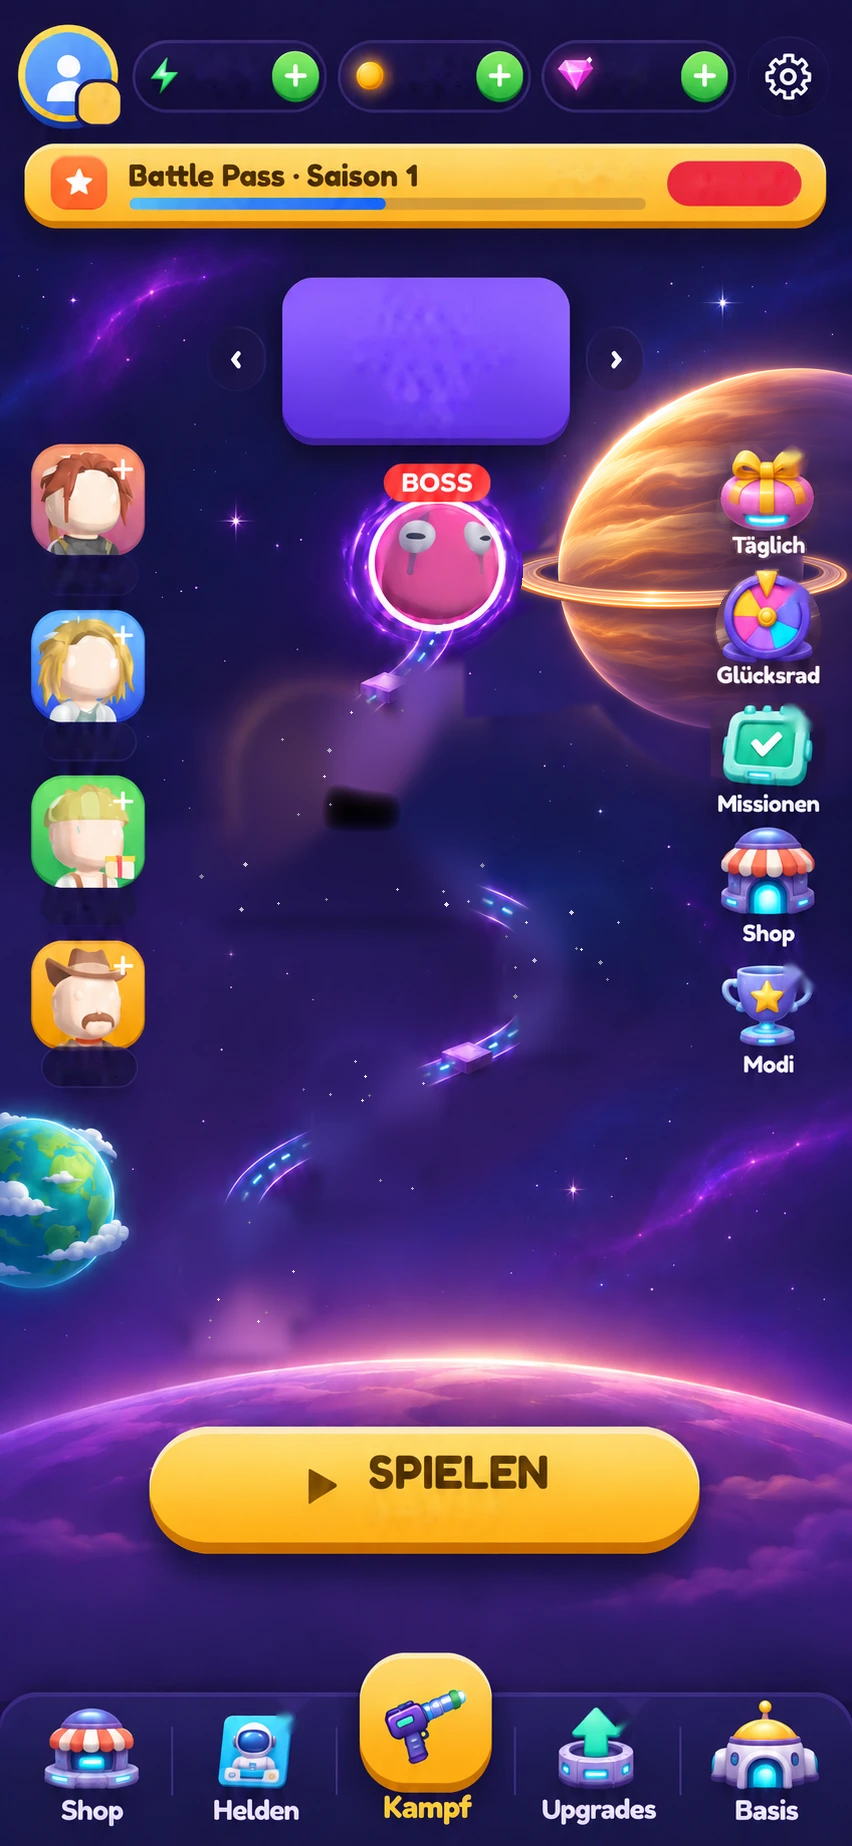
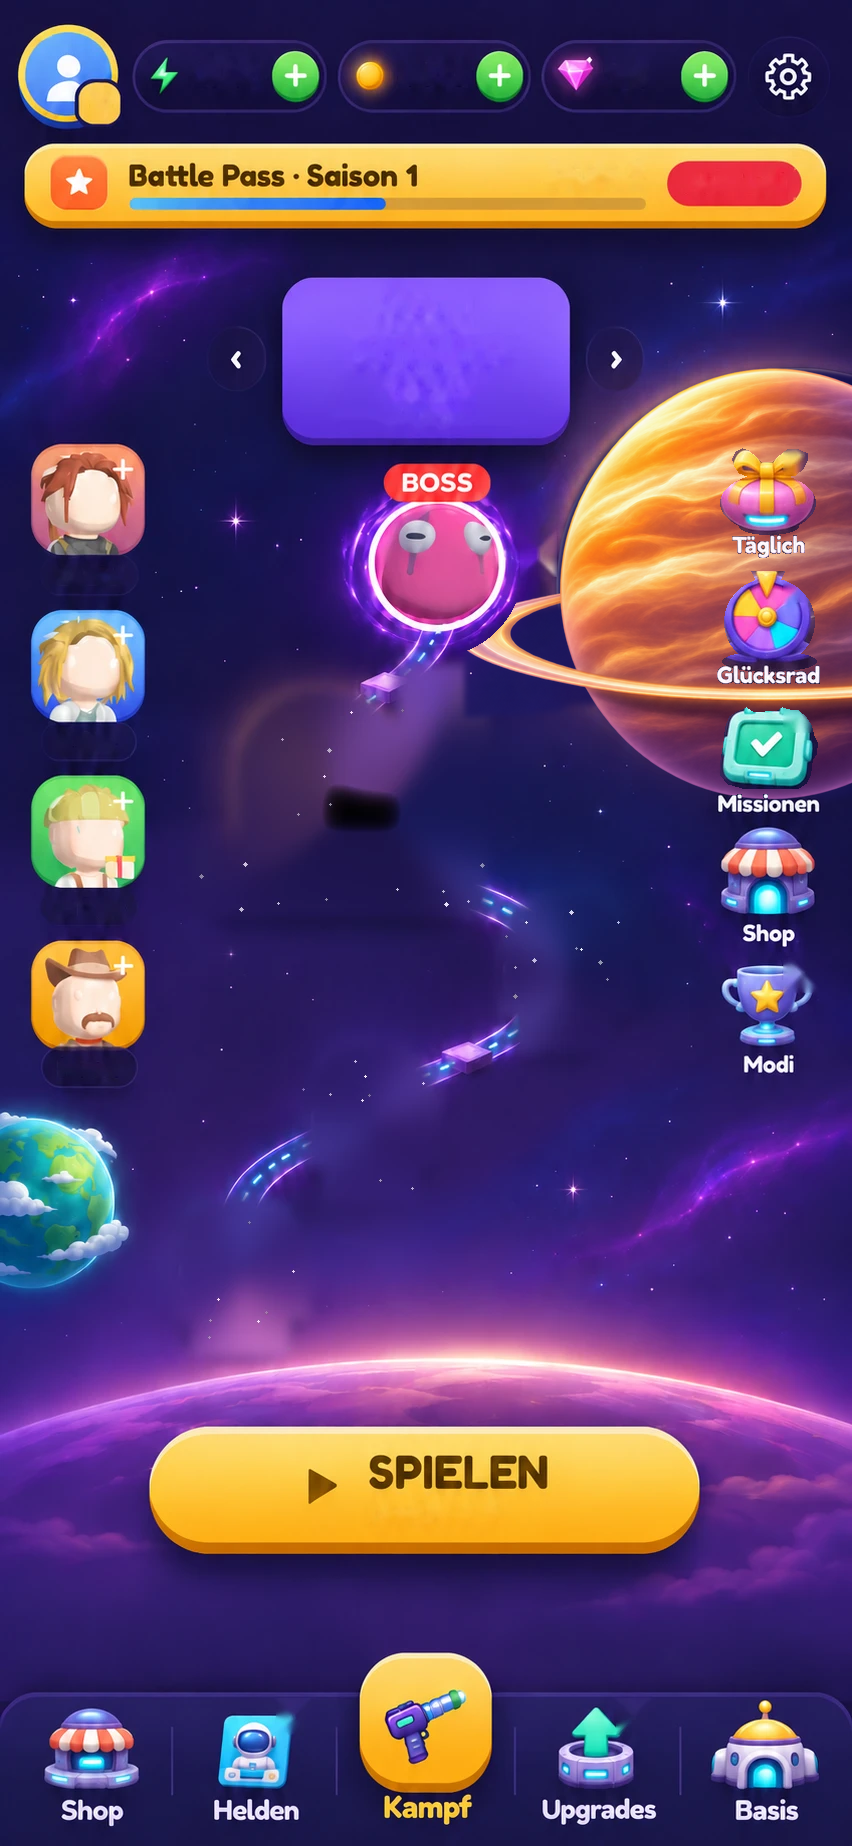
Ringplanet aus einer einzelnen freigestellten Kugel und planetenfreiem Hintergrund neu zusammensetzen

Changed region(s): [[0.5493, 0.1853, 1.0, 0.4323]]

diff --git a/Vorlage_Raw/Hauptbildschirm_Comic_v5/LIESMICH_CLAUDE.md b/Vorlage_Raw/Hauptbildschirm_Comic_v5/LIESMICH_CLAUDE.md
@@ -1,9 +1,11 @@
-# Hauptbildschirm – erneute Ringkorrektur
+# Hauptbildschirm – eine Kugel mit horizontalem Saturnring
 
-Stand 09.11.2026, Revision v7. Der Liefername `hauptbildschirm_aktuell_v5.png` bleibt für den bestehenden Einbau erhalten und ersetzt die vorherige missverständliche Ringfassung.
+Stand 09.11.2026, Revision v8. `hauptbildschirm_aktuell_v5.png` ist die neue zusammengesetzte Fassung in 852 × 1846 Pixeln (PNG/RGB). Der Dateiname bleibt für den bestehenden Einbau erhalten.
 
-Der Ring liegt nun als flache, horizontale Ellipse um den Äquator der Kugel, wie bei Saturn. Er ist kein senkrechter Halo. Der hintere obere Bogen verschwindet hinter der undurchsichtigen Kugel; nur der vordere untere Bogen überlagert sie sichtbar. Die Kugel bleibt oberhalb und unterhalb des vorderen Bogens sichtbar. Eine Überlagerung im Vordergrund bedeutet hier ausdrücklich den vor der Kugel verlaufenden Ring, nicht eine rückwärtige Linie durch den Planeten.
+Die vorherige Planetengrafik und sämtliche alten Ringbögen wurden im betroffenen Bereich durch eine mit der eingebauten Bildgenerierung erzeugte planetenfreie Hintergrundplatte ersetzt. Darauf liegt genau eine einzelne, separat erzeugte und einheitlich skalierte Planetenkugel. Es gibt keinen zweiten Planeten dahinter. Der Ring liegt horizontal um dieselbe Kugel; sein hinterer Teil ist verdeckt, sein vorderer Bogen davor sichtbar. Die rechte Bildschirmkante schneidet das Objekt wie bisher teilweise ab. Der Ring muss nicht vollständig im Bild sichtbar sein.
 
-PNG/RGB, 852 × 1846 Pixel. Neue Planetengrafik mit eingebauter Bildgenerierung, danach ausschließlich im örtlichen Planeten-/Ringbereich eingesetzt. Die Masken halten den Boss, die Titelbox, die rechten Knöpfe und Texte sowie den restlichen Bildschirm geschützt. Die Differenzprüfung bestätigt null geänderte Pixel außerhalb der örtlichen Bearbeitungsmaske und null geänderte Pixel in der UI-Schutzmaske. Innerhalb des Planeten-/Ringbereichs wurden Wolkenbänder, Ring und Glanz neu gezeichnet. Keine Spielcodeänderung.
+Zusätzlich enthalten: `ringplanet_einzeln.png` als transparentes Einzelobjekt und `hauptbildschirm_ohne_ringplanet.png` als Hintergrund mit unveränderter UI. Nicht das Einzelobjekt noch einmal auf das bereits zusammengesetzte Endbild legen, sonst würde der Planet doppelt erscheinen. Für den einfachen Einbau nur `hauptbildschirm_aktuell_v5.png` verwenden.
 
-`vergleich_ring.png` zeigt die ursprüngliche Vorlage und diese neue horizontale Saturnringfassung. Die Masken und `PRUEFUNG.json` sind zur Nachvollziehbarkeit enthalten. Booster-Symbole und Gegnerdateien bleiben unverändert.
+Die UI-Silhouetten und Schrift liegen zuletzt als geschützte Originalpixel über dem Planeten. Kopfleiste, Titelbox, Boss, Pfad, linke Angebote, Spielen-Knopf und Reiterleiste bleiben erhalten. Die Differenzprüfung bestätigt null geänderte Pixel außerhalb der örtlichen Bearbeitungsmaske und null geänderte Pixel in der UI-Schutzmaske. Innerhalb des Planeten-/Ringbereichs einschließlich des ursprünglichen Ringglanzes wurde die Grafik neu aufgebaut. Keine Spielcodeänderung, keine anderen Pakete geändert.
+
+`vergleich_ring.png` zeigt die ursprüngliche Vorlage und diese Fassung. `PRUEFUNG.json` enthält die Position und den einheitlichen Skalierungsfaktor des Einzelobjekts. Beide neuen Bildelemente wurden mit der eingebauten Bildgenerierung erzeugt. Technische Ebenenzusammensetzung und Pixelprüfung erfolgten lokal. Keine zusätzlichen kostenpflichtigen Dienste.
